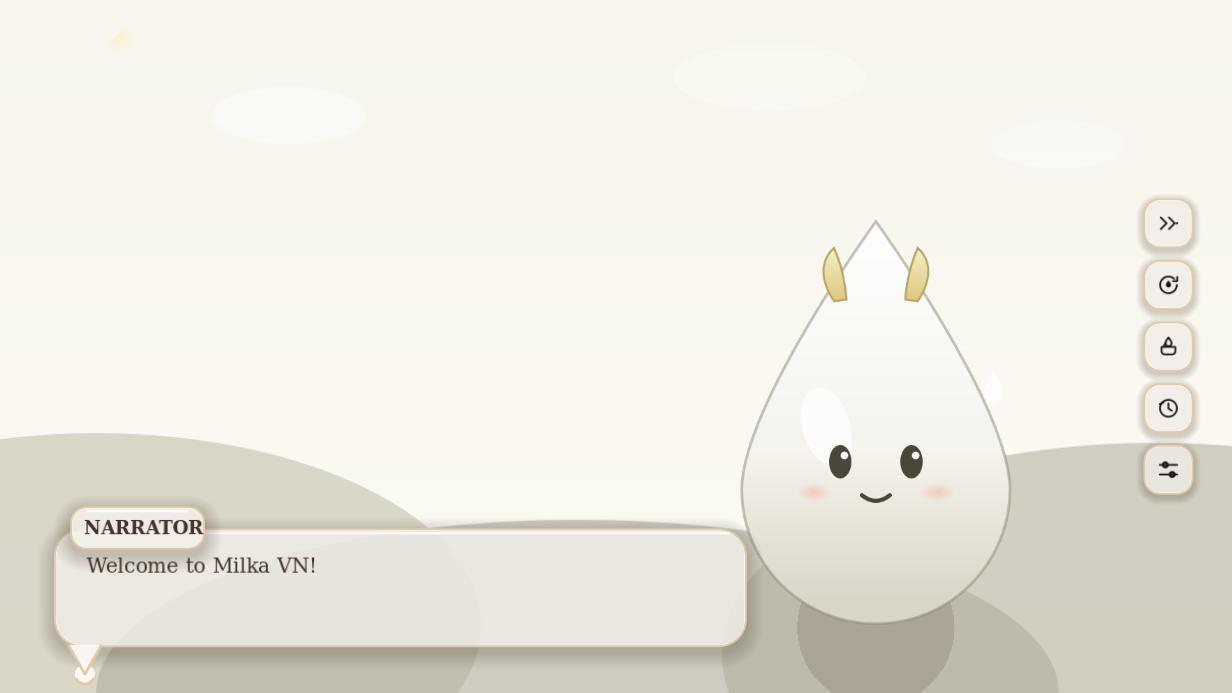
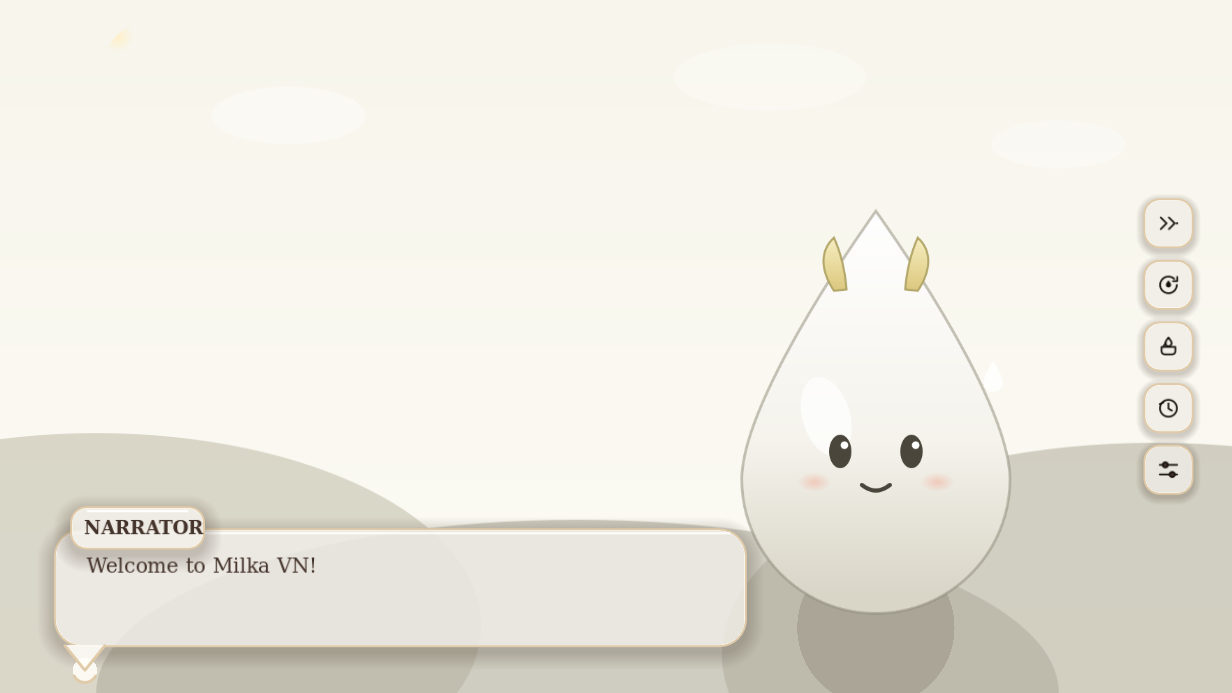
Docs: maple_ui README + HANDOFF note, refreshed sway/pixman captures

diff --git a/maple_ui/README.md b/maple_ui/README.md
@@ -1,0 +1,75 @@
+# maple_ui — milk-glass UI kit (Maple [q9])
+
+Transparent, milk-themed dialogue UI and title screen for Milka VN, built as
+Godot 4.7 scenes. Everything visual is SVG or drawn in code, and **no button
+carries text** — buttons are icon-only, their meaning lives in `tooltip_text`.
+
+## The one rule
+
+The look is not in the scenes. It is in [`milk_style.tres`](milk_style.tres)
+(an instance of [`milk_style.gd`](milk_style.gd)):
+
+| Group | What it owns |
+| --- | --- |
+| Palette | surface, glass fill, cream rim, glass shadow, meniscus highlight, ink, quiet, butter accent, caramel hover |
+| Glass geometry | glass radius, chip radius, rim width, padding, scrim |
+| Layout | bubble width + offset, drip tail size, rail offset + gap, chip and glyph size |
+| Type | body / name / chrome sizes, name tracking, line gap |
+| Motion | typewriter speed, swell time, hover time, `reduced_motion` |
+
+`dialogue_bubble.tscn` and `title_screen.tscn` both reference this resource.
+Change one value and the bubble and the title move together — that is the whole
+point of splitting the settings out.
+
+## Files
+
+| File | Purpose |
+| --- | --- |
+| `milk_style.gd` / `.tres` | shared settings + the StyleBox recipes built from them |
+| `glass_panel.gd` | `MapleGlassPanel` — draws a pane of milk glass (rim, meniscus, drip tail) |
+| `icon_button.gd` | `MapleIconButton` — icon-only chip button, hover squash, butter focus ring |
+| `droplet_field.gd` | drifting milk droplets behind the title, drawn (no textures) |
+| `dialogue_bubble.tscn` / `.gd` | the dialogue UI: shallow glass bottom-left, name plate riding its edge, floating icon rail at the right |
+| `title_screen.tscn` / `.gd` | title lockup on the same glass, icon menu on the same axis |
+| `actor.gd` | low-effort animated stand-in actor (bob, blink, expression swap) |
+| `demo/maple_demo.tscn` / `.gd` | title -> dialogue demo stage |
+| `tools/capture_maple.gd` / `.tscn` | writes `docs/screenshots/maple_*.png` |
+| `tools/sway_capture.sh` + `sway_headless.conf` | runs Godot on sway with `WLR_RENDERER=pixman` and captures |
+| `icons/*.svg` | 10 hand-drawn glyphs: play, continue, settings, quit, advance, auto, save, load, history, mute |
+
+## Running
+
+```sh
+godot --path . res://maple_ui/demo/maple_demo.tscn
+```
+
+`Enter` / `Space` advances the line (typewriter first, then the next line).
+
+## Capturing on sway + pixman
+
+```sh
+GODOT=/path/to/godot bash maple_ui/tools/sway_capture.sh
+```
+
+Starts sway headless with the CPU rasteriser (`WLR_BACKENDS=headless
+WLR_RENDERER=pixman`), runs Godot on that Wayland seat with `--rendering-driver
+opengl3`, and saves:
+
+- `docs/screenshots/maple_title.png`
+- `docs/screenshots/maple_dialogue.png`
+- `docs/screenshots/maple_bubble_detail.png`
+- `docs/screenshots/maple_sway_desktop.png` (compositor-level, via `grim`)
+
+## Using it in the game
+
+- Title: set `run/main_scene` to `res://maple_ui/title_screen.tscn`, or instance
+  it from your own flow.
+- Dialogue: instance `maple_ui/dialogue_bubble.tscn` and call
+  `show_line(speaker, text)`. It emits `action_requested(id)` for every icon in
+  the rail (`advance`, `auto`, `save`, `history`, `settings`) and `line_finished`
+  when a completed line is advanced past. `advance()` returns `true` when the
+  caller should supply the next line.
+- Both accept a different `MapleMilkStyle` resource if you want a second look.
+
+Content (words, characters, backgrounds) stays yours: the demo art is a
+placeholder and the demo lines are quoted from `dialogue/milka.dialogue`.

diff --git a/ai_agent_docs/HANDOFF.md b/ai_agent_docs/HANDOFF.md
@@ -1,3 +1,46 @@
+# Maple [q9] — branch `maple-q9-milk-glass` (2026-09-30)
+
+My own version of the milk UI. Godot only, no web code, and no look restated
+inside any scene — the settings live in one resource:
+
+- `maple_ui/milk_style.gd` + `maple_ui/milk_style.tres` — **the settings**.
+  The dialogue bubble and the title screen both load this same `.tres`, so the
+  two can never drift: palette, glass geometry, layout offsets, type scale and
+  motion timings are all here. Swap the resource and everything follows.
+- `maple_ui/glass_panel.gd` — transparent milk-glass pane: translucent fill,
+  cream rim, top meniscus highlight, droplet tail at the speaker.
+- `maple_ui/icon_button.gd` + `maple_ui/icons/*.svg` — **icon-only** buttons
+  (10 hand-drawn SVG glyphs). No text ever sits on a button face; the meaning
+  travels in `tooltip_text`, so it translates.
+- `maple_ui/dialogue_bubble.tscn` — shallow glass anchored bottom-left with a
+  drip tail, plus a floating vertical icon rail at the right edge
+  (advance / auto / quick save / backlog / settings).
+- `maple_ui/title_screen.tscn` — the *same* glass lockup and the same icon
+  chips, menu stacked on the same left axis; empty glass field on the right.
+- `maple_ui/demo/maple_demo.tscn` — title -> dialogue demo with an animated
+  placeholder actor (bob + blink + expression swap). Its four lines are quoted
+  from `dialogue/milka.dialogue`; **no new dialogue words were written**.
+
+Run it:
+
+    godot --path . res://maple_ui/demo/maple_demo.tscn
+
+Screenshot it the way the human asked (sway, pixman software renderer):
+
+    GODOT=<godot 4.7 binary> bash maple_ui/tools/sway_capture.sh
+    # -> docs/screenshots/maple_title.png, maple_dialogue.png,
+    #    maple_bubble_detail.png, maple_sway_desktop.png
+
+To adopt it as the game UI: point `run/main_scene` at
+`res://maple_ui/title_screen.tscn`, and instantiate `maple_ui/dialogue_bubble.tscn`
+wherever the balloon is shown (it exposes `show_line(speaker, text)`,
+`advance()`, and emits `action_requested(id)` / `line_finished`).
+`scenes/vn_balloon.tscn` and the rest of the project are untouched. Art and
+story stay the human's — the demo art (`assets/characters/crema`,
+`assets/backgrounds/milky_meadow.svg`) only stands in.
+
+---
+
 # READ THIS FIRST - current state (Chocola-7f3 + Chocola-9b2, 2026-09-29)
 
 The dated sections below are a log of what was believed at the time. Several early ones call test failures
